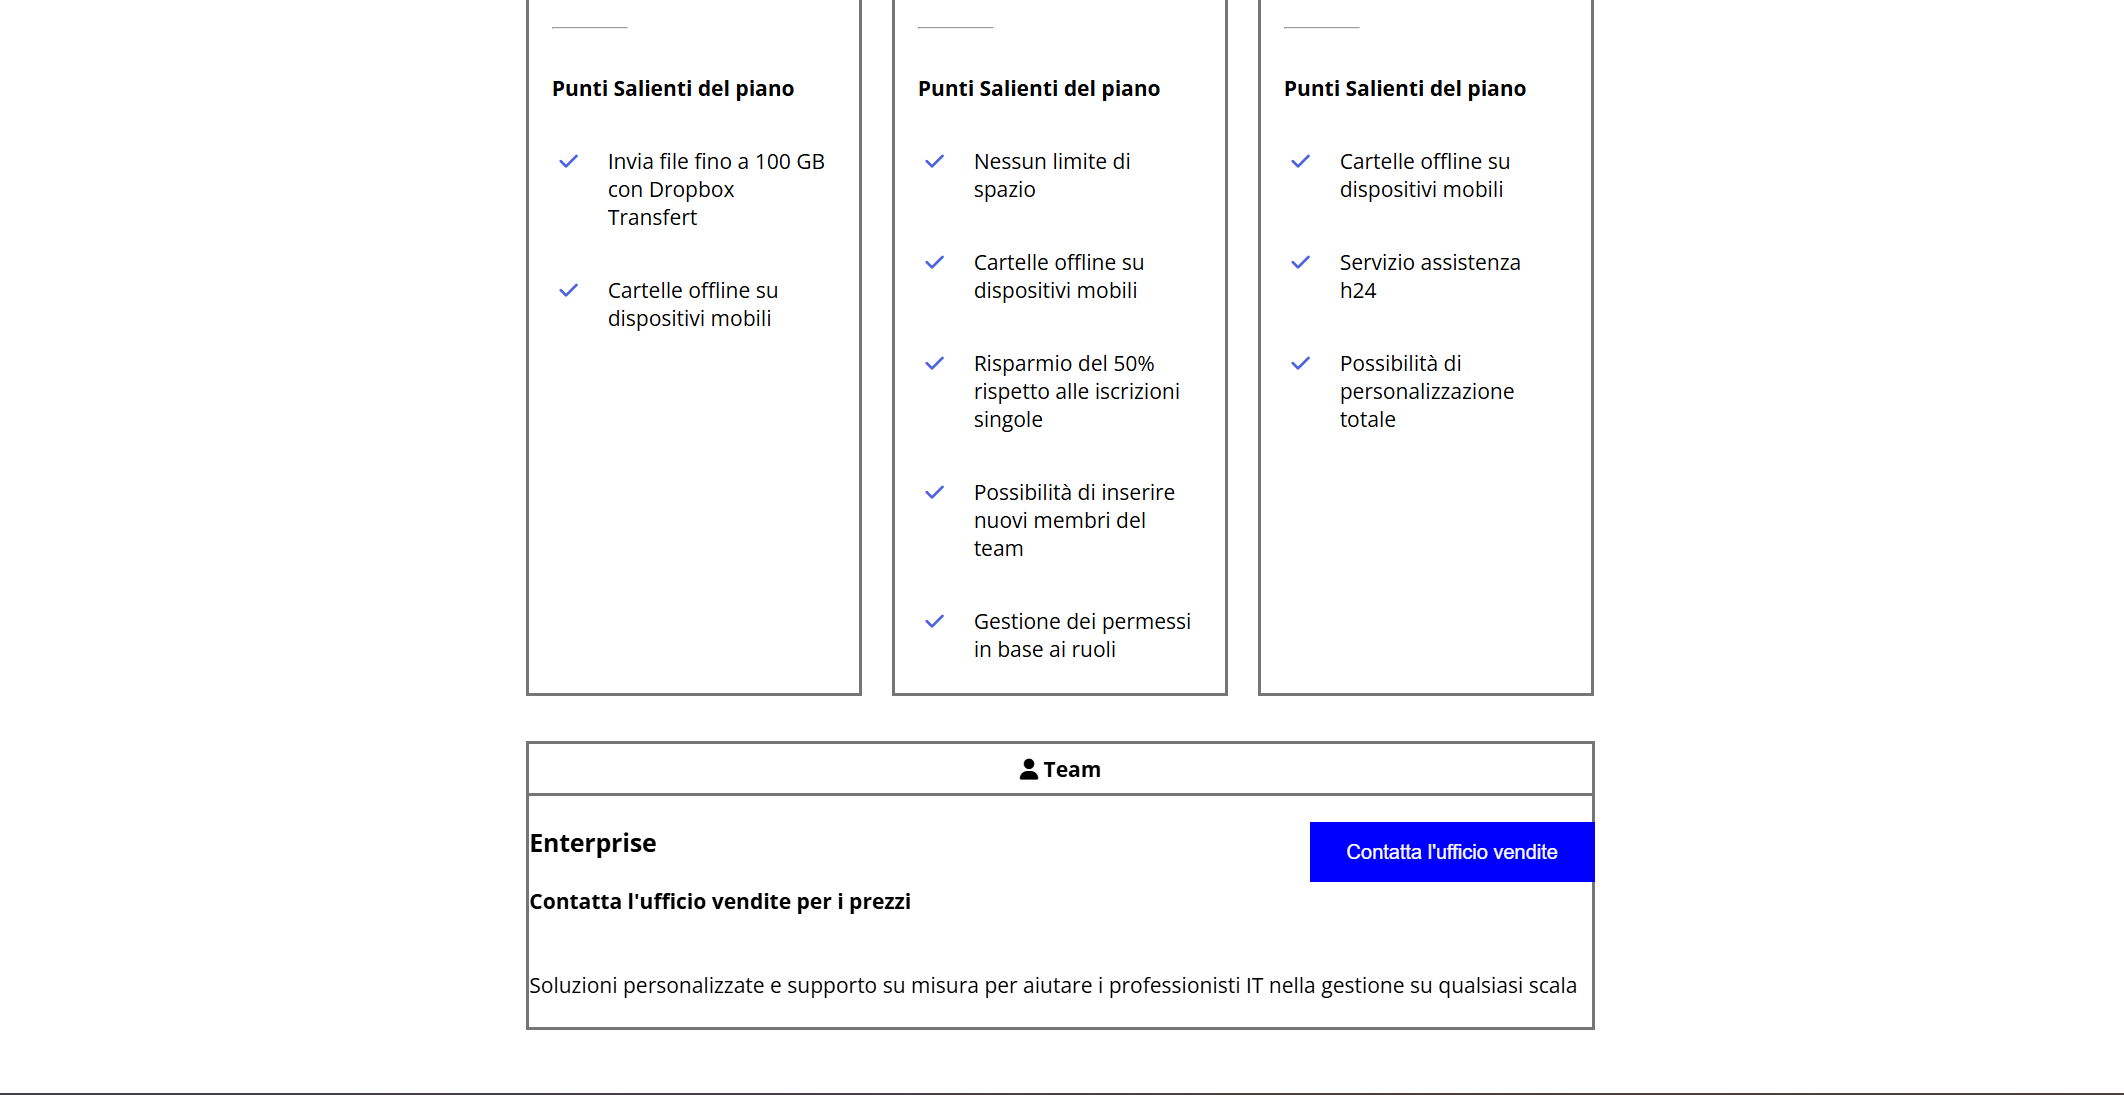
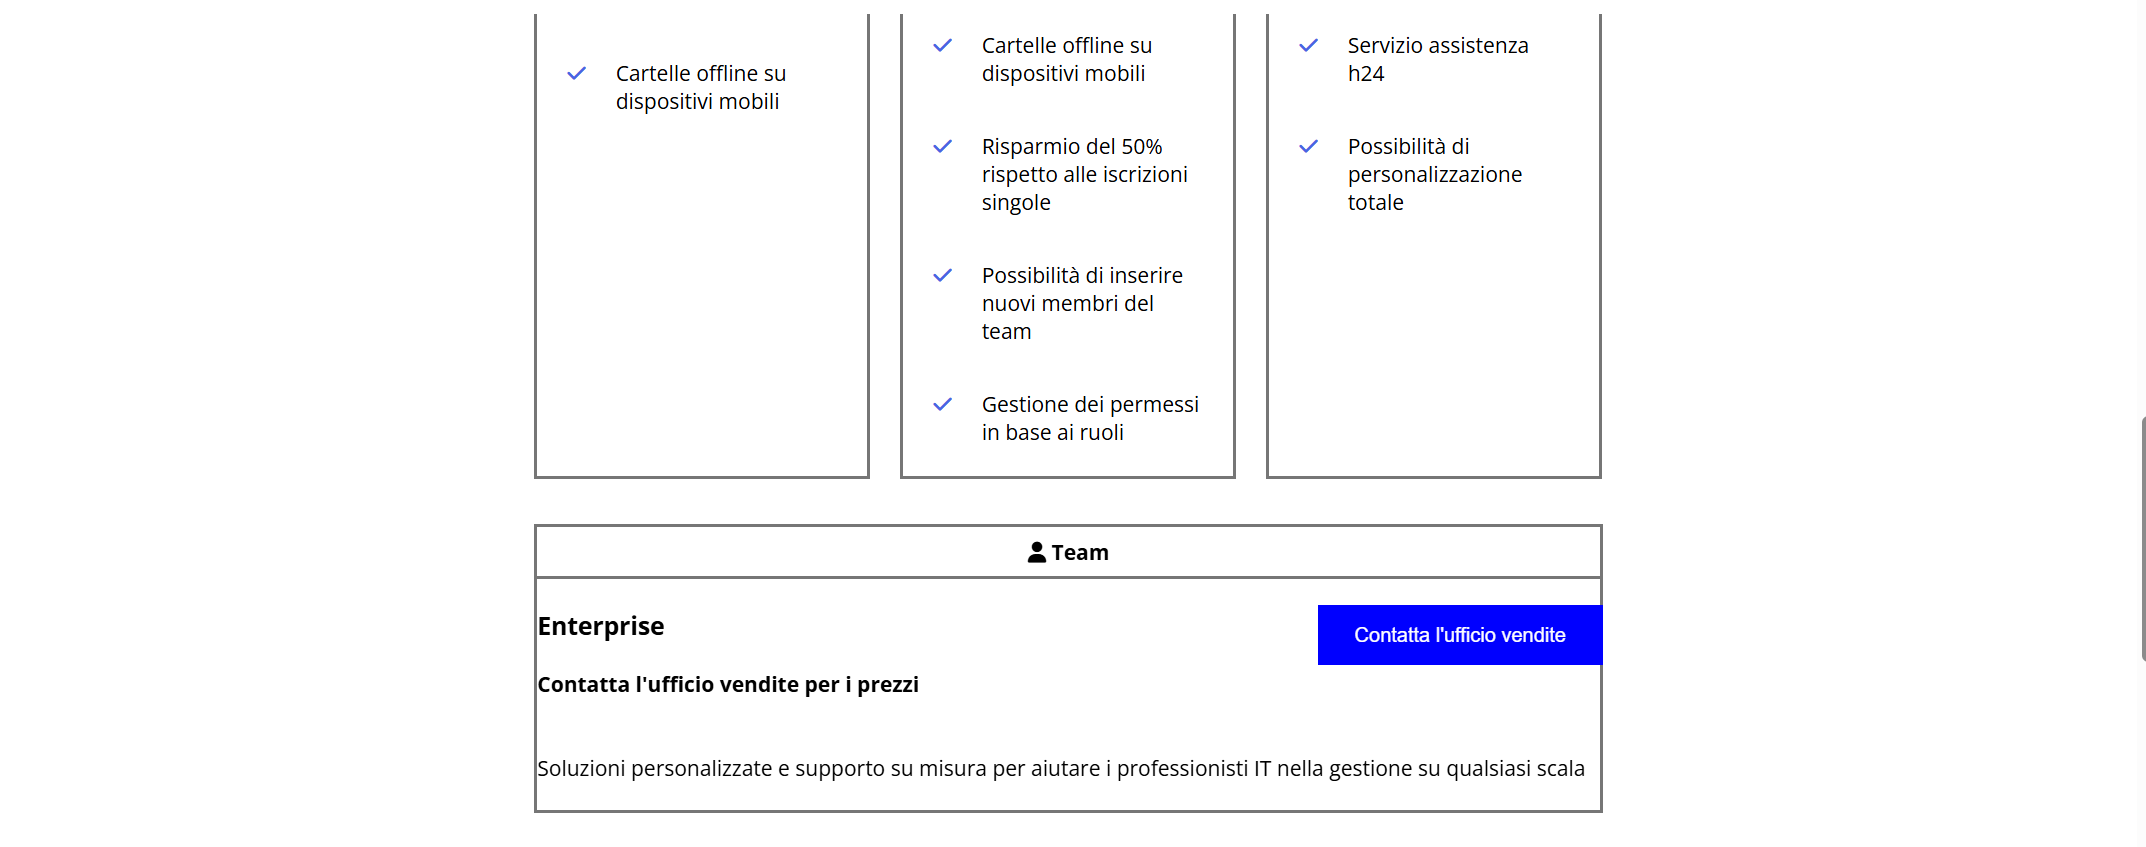
Aggiornato README.md

diff --git a/README.md b/README.md
@@ -1,37 +1,44 @@
+<p align="center">
+  <img src="img/boolean-logo.png" alt="Boolean logo" width="35">
+</p>
+
 <h1 align="center">Layout Dropbox</h1>
 
-<p align="center">
-  Esercizio svolto durante il corso Boolean per esercitarmi nella riproduzione del layout della homepage di Dropbox con HTML e CSS.
-</p>
+Pagina HTML/CSS che riproduce un layout ispirato alla homepage di Dropbox,
+con focus sulla suddivisione in sezioni e sulla cura del dettaglio grafico.
 
 ## Obiettivo
 
-- Riprodurre il layout fornito nello screenshot, cercando di essere il più fedeli possibile.
-- Analizzare il layout con commenti per individuare le macroaree (header, hero, sezioni centrali, footer).
+- Riprodurre il layout fornito nello screenshot, cercando di essere il più fedeli possibile
+- Analizzare il layout con commenti per individuare le macroaree
+  (header, sezione hero, sezioni centrali, footer)
 - Procedere per passi:
-  - prima struttura a blocchi;
-  - poi aggiunta dei dettagli sezione per sezione.
+  - prima struttura a blocchi
+  - poi aggiunta dei dettagli sezione per sezione
 
 ## Approccio e buone pratiche
 
-- Mantenere un codice ordinato e leggibile, senza incartarsi su una singola feature.
-- Creare classi riutilizzabili per gli elementi ricorrenti, centralizzando le regole comuni in CSS.
-- Non lavorare ancora sul responsive completo, ma usare dove possibile unità relative senza aggiungere complessità inutile.
+- Mantenere un codice ordinato e leggibile, senza bloccarsi su una singola feature
+- Creare classi riutilizzabili per gli elementi ricorrenti, centralizzando le regole comuni in CSS
+- Non lavorare ancora sul responsive completo, ma iniziare a usare dove possibile unità relative
+  senza introdurre complessità non necessaria
 
 ## Anteprima
 
-![Anteprima1](img/Screen1.png)
-![Anteprima2](img/Screen2.png)
-![Anteprima3](img/Screen3.png)
-![Anteprima4](img/Screen4.png)
-![Anteprima5](img/Screen5.png)
+![Anteprima 1](img/Screen1.png)  
+![Anteprima 2](img/Screen2.png)  
+![Anteprima 3](img/Screen3.png)  
+![Anteprima 4](img/Screen4.png)  
+![Anteprima 5](img/Screen5.png)
+![Anteprima 5](img/Screen6.png)
+![Anteprima 5](img/Screen7.png)
 
 ## Risorse utilizzate
 
-- Font principale: **Open Sans** (Google Fonts)
+- Font principale: **Open Sans** (Google Fonts)  
 - Icone: **Font Awesome**
 
 ## Tecnologie utilizzate
 
-- HTML  
-- CSS
+- HTML5  
+- CSS3
